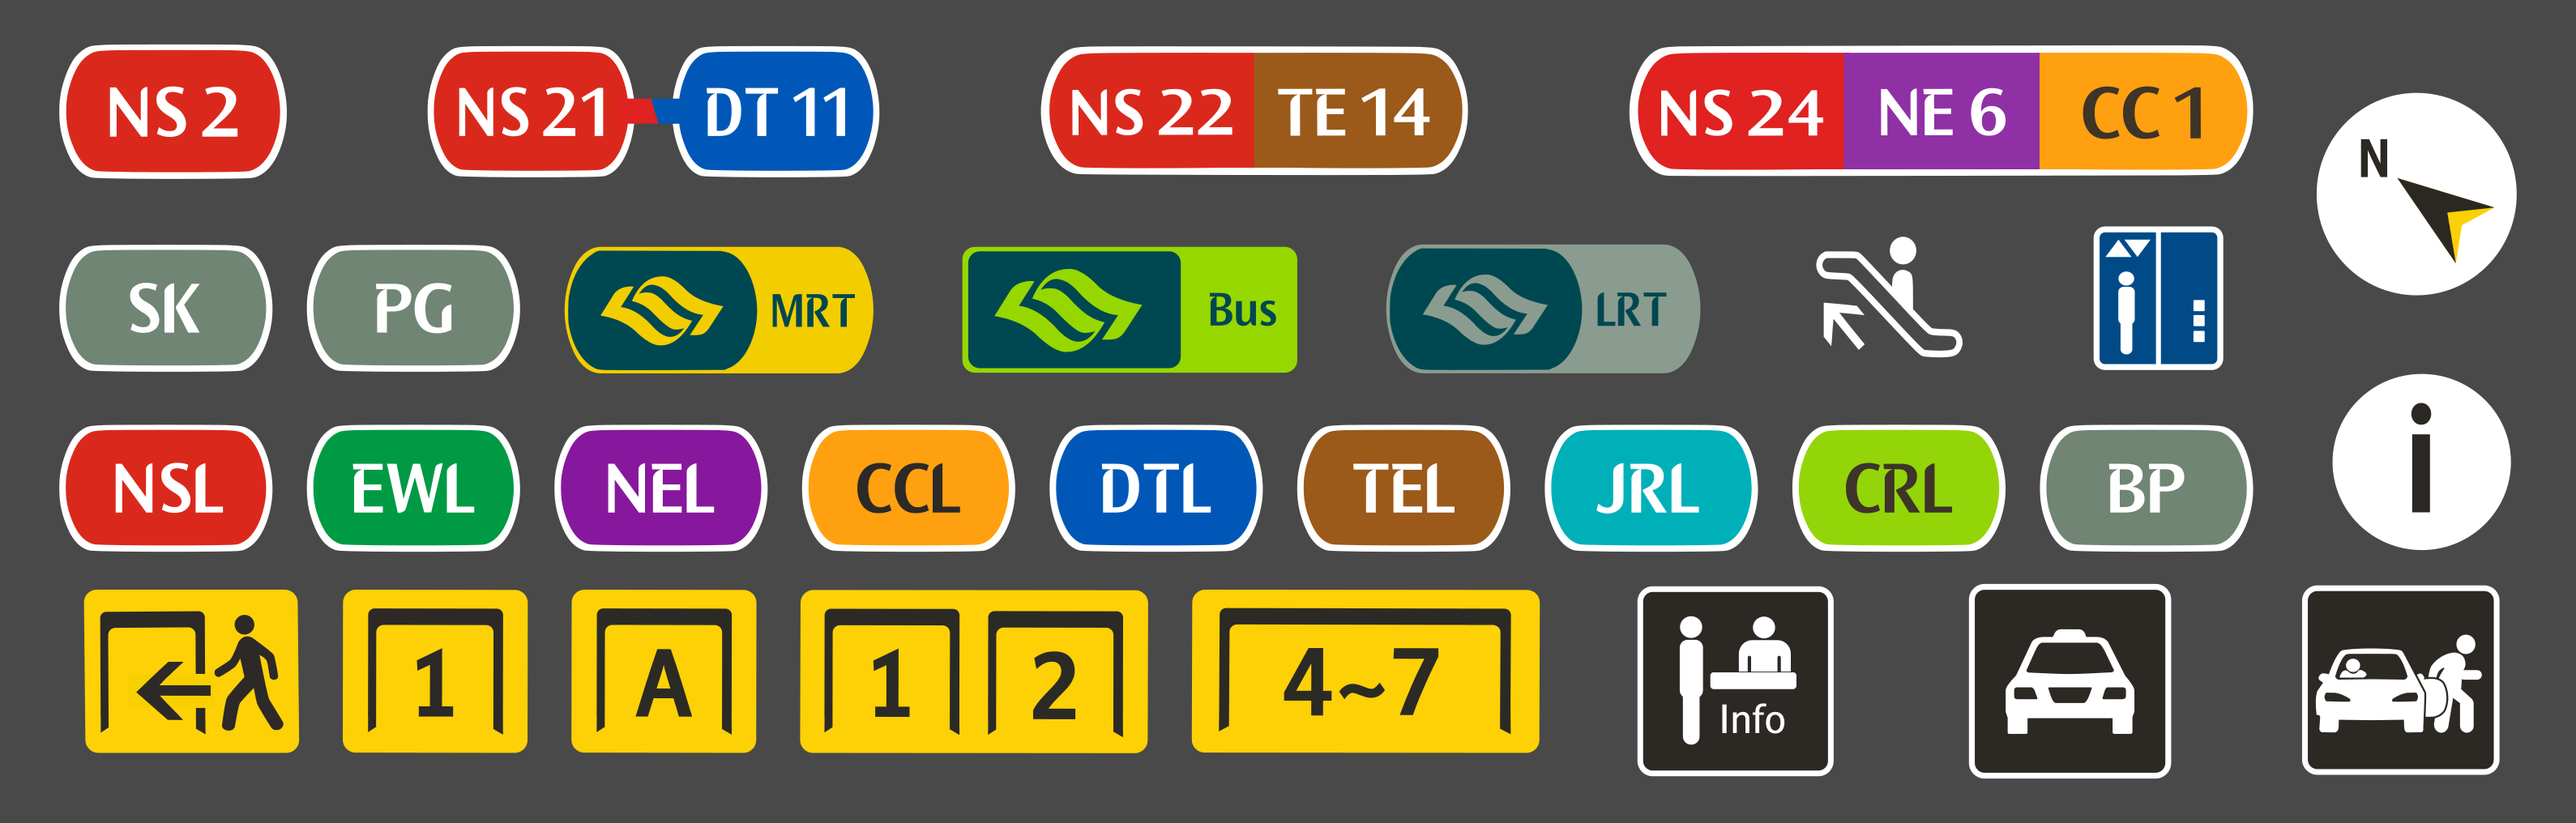
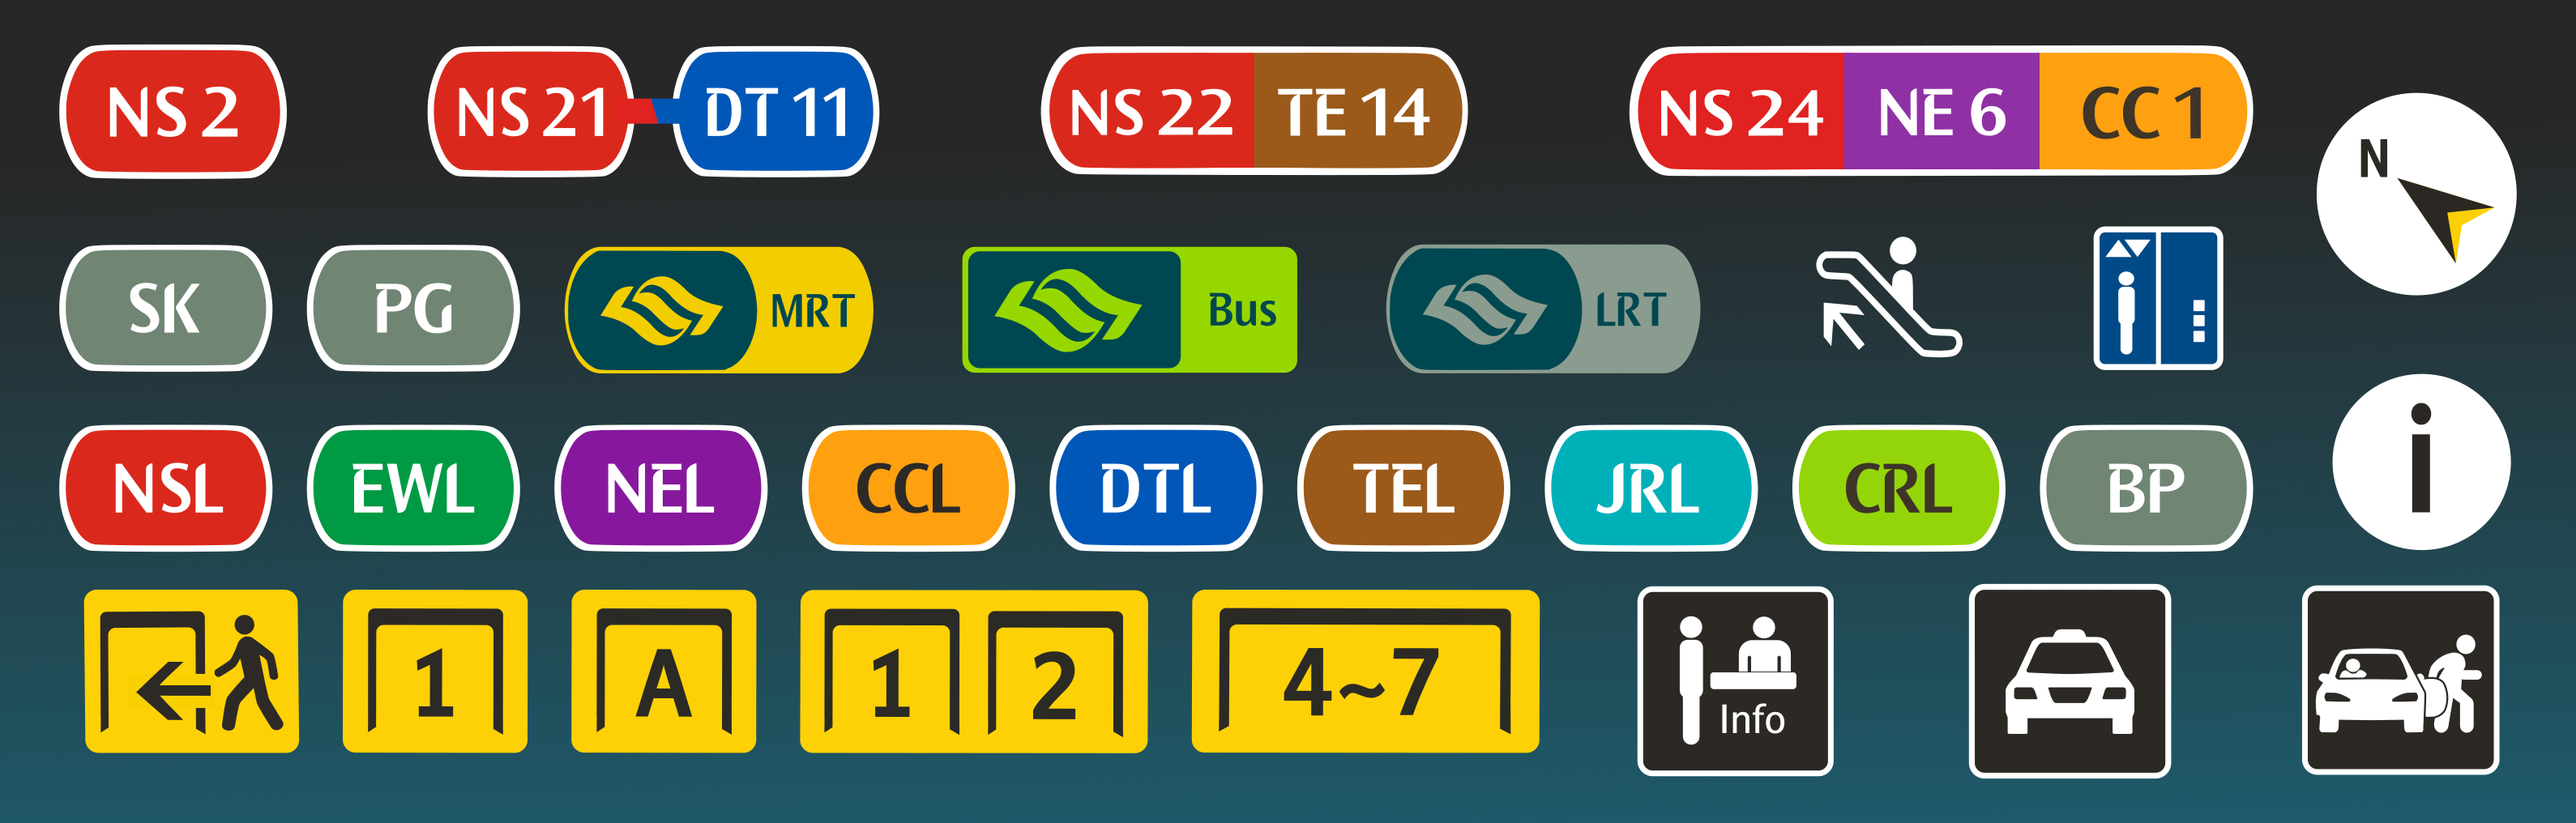
XXXX-XX Feature Update for Version Next (6.0.0)

diff --git a/eicw/eicw.html b/eicw/eicw.html
@@ -249,7 +249,8 @@
                         <div class="row justify-content-center">
 
                             <!-- Preface -->
-                            <div class="col-lg-12 wow fadeIn" data-wow-delay="100ms" id="dsi" style="padding-top: 10px;">
+                            <div class="col-lg-12 wow fadeIn" data-wow-delay="100ms" id="dsi"
+                                style="padding-top: 10px;">
                                 <div class="info justify-content-center">
                                     <h2 style="font-size: 30px; font-weight:bold;">Design
                                         System Introduction</h2>
@@ -347,13 +348,13 @@
     </section>
 
     <!-- Section Header -->
-    <section class="breadcrumb-area-eicw-subs bg-img bg-overlay-section parallax" id="eia-img"
+    <section class="breadcrumb-area-eicw-subs bg-img bg-overlay-section" id="eia-img"
         style="background-image: url(img/eia-light.png)">
         <div class="container h-100">
             <div class="row h-100 align-items-center">
                 <div class="col-12">
                     <div class="breadcrumb-content text-center">
-                        <h2 class="page-title">Existing Icon Assets</h2>
+                        <!-- <h2 class="page-title">Existing Icon Assets</h2> -->
                     </div>
                 </div>
             </div>
@@ -367,6 +368,13 @@
                 <div class="row justify-content-center">
                     <div class="col-lg-12">
                         <div class="row justify-content-center">
+
+                            <div class="info justify-content-center" style="padding-top: 3em;">
+                                <h2 style="font-size: 30px; font-weight:bold;">Existing Icon Assets</h2>
+                                <p style="text-align: left;">This section will showcase the existing icon assets
+                                    currently in use, categorised into different sections.
+                                </p>
+                            </div>
 
                             <!-- Exit Signs -->
                             <div class="col-lg-12 wow fadeIn" data-wow-delay="100ms">

diff --git a/eicw/js/eicw-1.js b/eicw/js/eicw-1.js
@@ -76,6 +76,7 @@ function updateThemeIcon(theme) {
 function updateHrefForDarkMode() {
     /* Existing logic for updating banners, images, and videos */
     const coverSect = document.getElementById('cv-img');
+    const eiaSect = document.getElementById('eia-img');
 
     const tf_link = document.getElementById('tf');
     const tf_img = document.getElementById('tf-img');
@@ -108,6 +109,7 @@ function updateHrefForDarkMode() {
 
     if (isDarkMode) {
         coverSect.style.backgroundImage = "url('./img/cover-dark.png')";
+        eiaSect.style.backgroundImage = "url('./img/eia-dark.png')";
 
         tf_link.href = './img/typeface-dark.png';
         tf_img.src = './img/typeface-dark.png';
@@ -139,6 +141,7 @@ function updateHrefForDarkMode() {
 
     } else {
         coverSect.style.backgroundImage = "url('./img/cover-light.png')";
+        eiaSect.style.backgroundImage = "url('./img/eia-light.png')";
 
         tf_link.href = './img/typeface-light.png';
         tf_img.src = './img/typeface-light.png';

diff --git a/css/style.css b/css/style.css
@@ -141,8 +141,8 @@ ul li {
     top: 0;
     left: 0;
     z-index: -1;
-    background-color: #ddddddd3;
-    backdrop-filter: blur(15px);
+    /* background-color: #e9e9e9cc; */
+    /* backdrop-filter: blur(2px); */
 }
 
 .row {
@@ -2443,7 +2443,7 @@ li.breadcrumb-item a {
 .breadcrumb-area-eicw-subs {
     position: relative;
     z-index: 1;
-    height: 40vh;
+    height: 65vh;
 }
 
 h2.page-title {

diff --git a/css/dark-mode.css b/css/dark-mode.css
@@ -445,8 +445,8 @@ body.dark-mode li.breadcrumb-item a {
 }
 
 body.dark-mode .bg-overlay-section::after {
-    background-color: #080808d2;
-    backdrop-filter: blur(15px);
+    /* background-color: #080808d2;
+    backdrop-filter: blur(15px); */
 }
 
 /* ------------------------------------------ */
